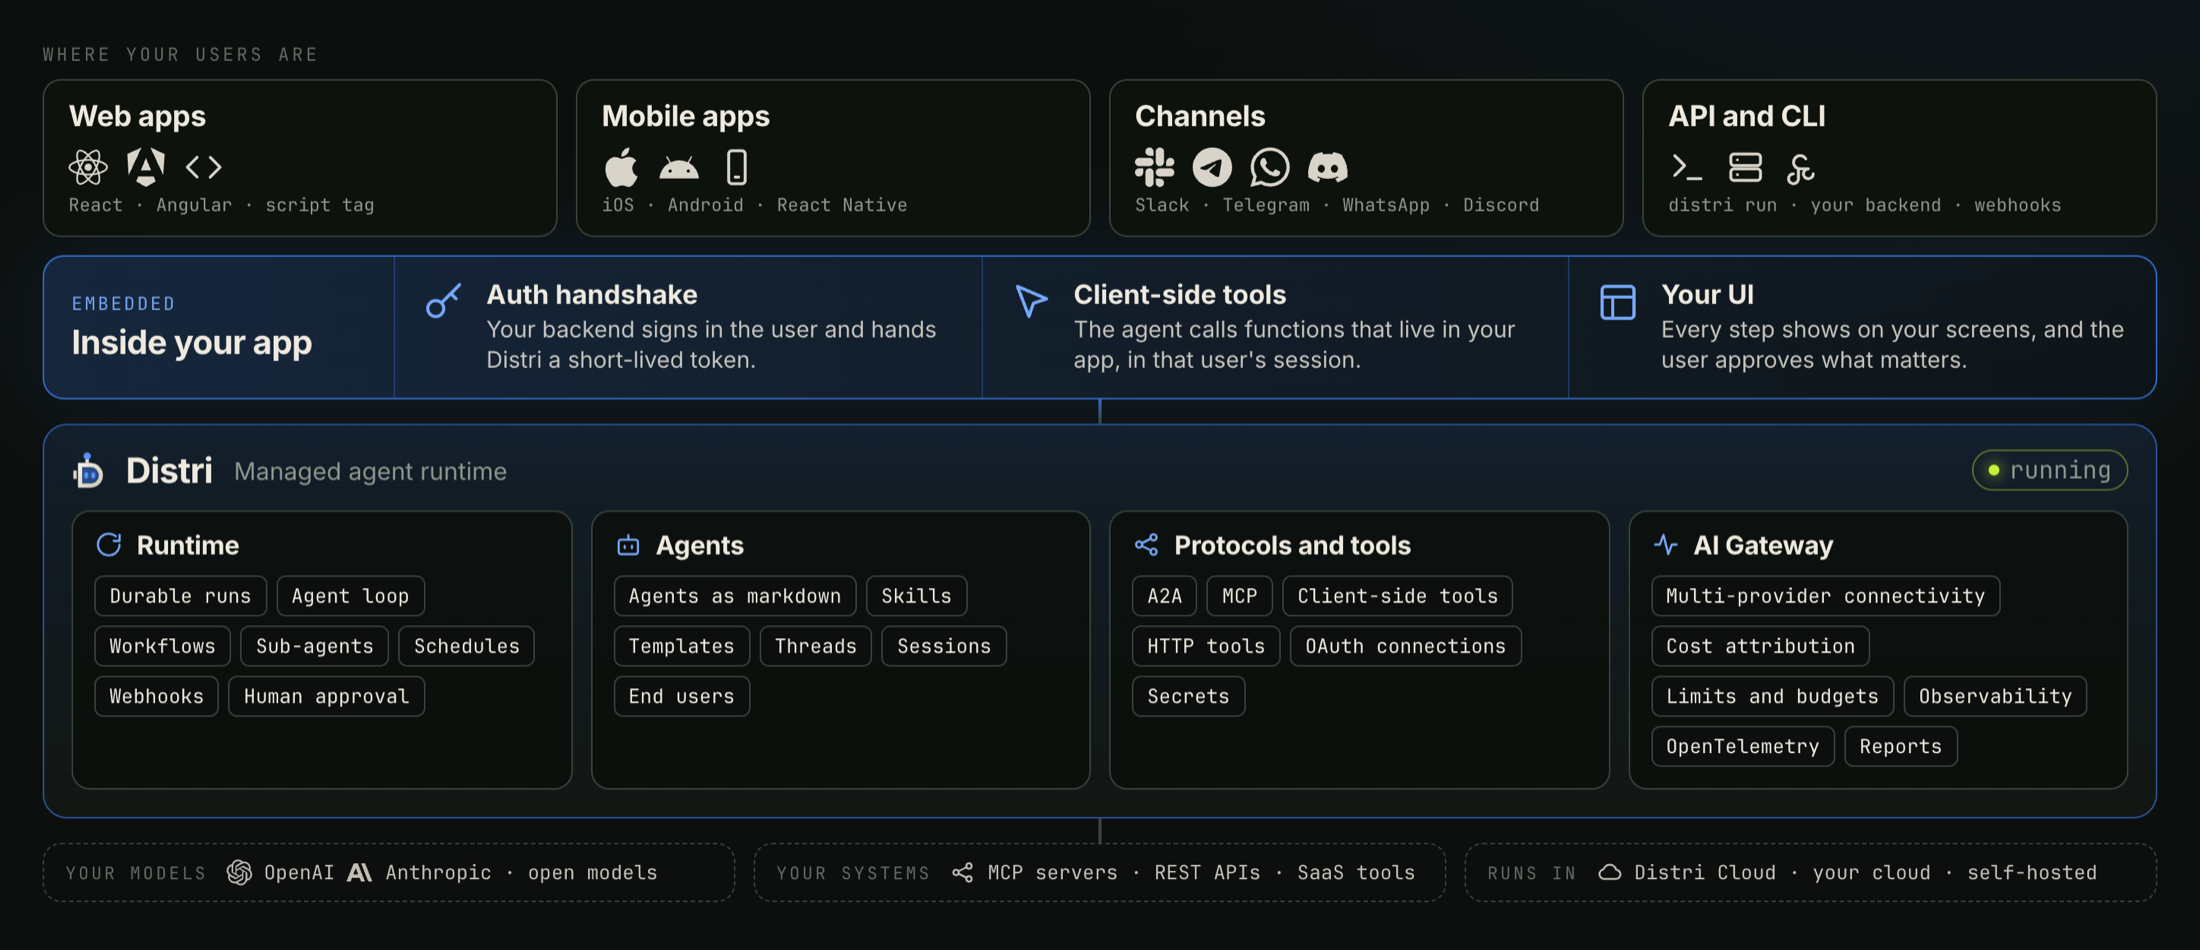
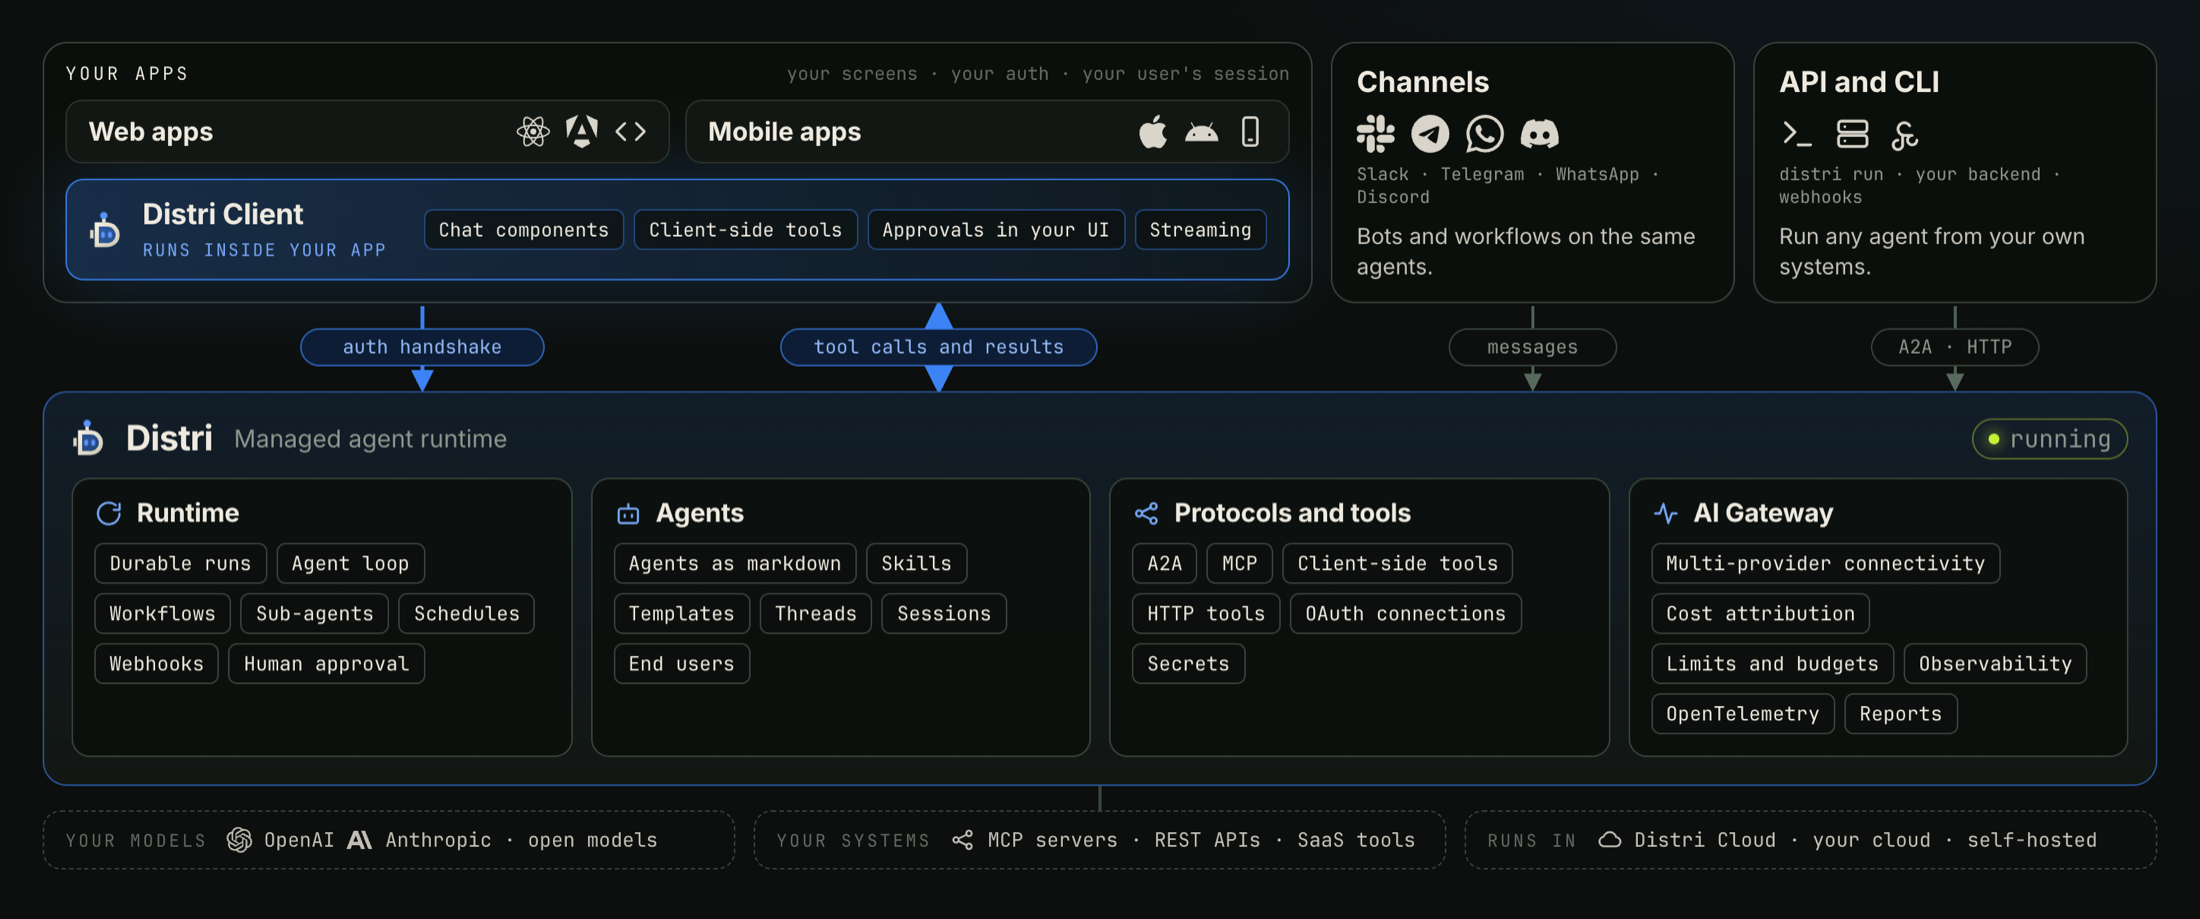
README: current platform diagram
The diagram now shows the Distri Client inside your apps, connected to the
managed agent runtime by the auth handshake and tool calls, with channels and
the API as their own boxes.

Changed region(s): [[0.0, 0.0305, 0.9891, 0.8226], [0.0309, 0.8531, 0.9891, 0.9445]]

diff --git a/README.md b/README.md
@@ -177,12 +177,12 @@ distri serve                                                     # run the serve
 ## Everything an embedded agent needs, built in
 
 <p align="center">
-  <img src="docs/assets/platform.png" alt="The Distri platform: where your users are, the embedded layer inside your app, the managed agent runtime, and your models and systems" width="100%">
+  <img src="docs/assets/platform.png" alt="The Distri platform: the Distri Client runs inside your apps and connects to the managed agent runtime; channels and the API connect to the same runtime" width="100%">
 </p>
 
 | | |
 |---|---|
-| **Embedded** | Auth handshake, client-side tools, and approvals in your own UI. For web, mobile, or any page with one script tag. |
+| **Distri Client** | Runs inside your app: chat components, client-side tools, approvals in your own UI and streaming. For web, mobile, or any page with one script tag. |
 | **Runtime** | Durable runs, workflows, sub-agents, schedules, webhooks and steps that wait for a person. |
 | **Agents** | Agents as markdown, skills, templates, threads, sessions and end users. |
 | **Protocols and tools** | [A2A](https://google.github.io/a2a/) for every agent, MCP for tools, HTTP tools, OAuth connections and secrets. |
